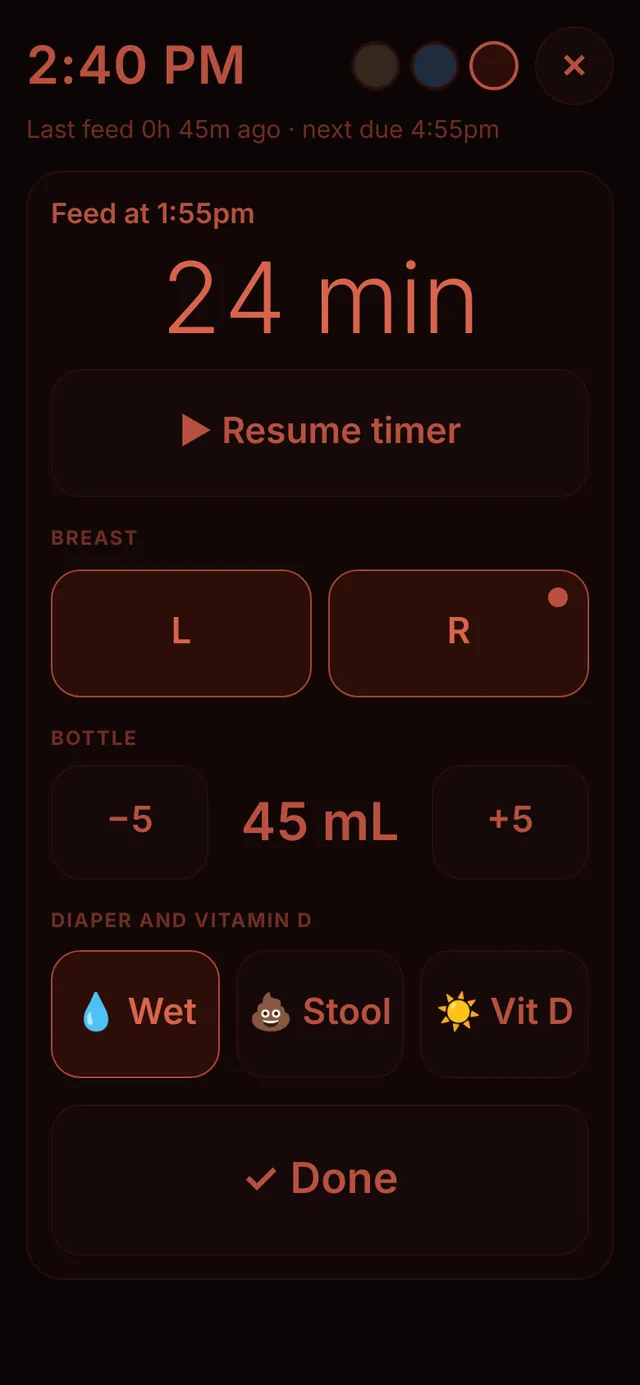
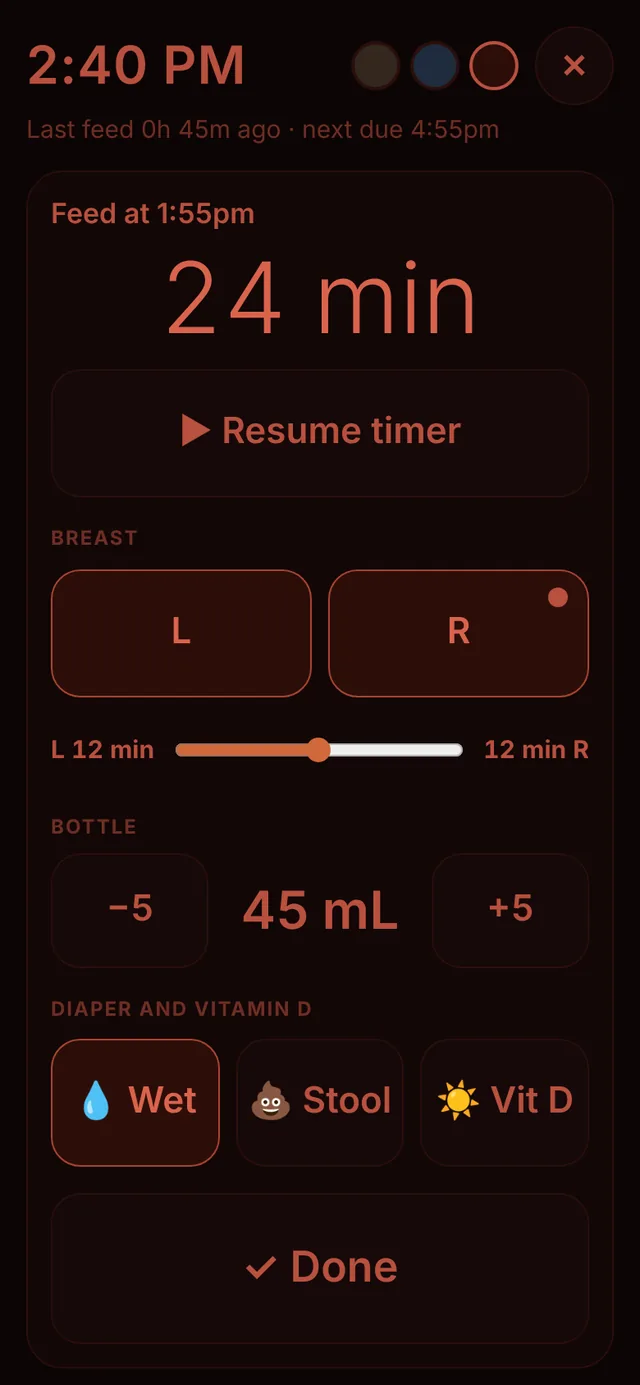
v1.10: left and right split for nursing time
When both sides are on, a Left ↔ Right slider divides the feed's
minutes between them (for example, 20 minutes at 75% left is 15 left
and 5 right). Steps of 5%, middle is even, and it follows the timer.

- Slider on the Log row and in Night shift
- Dashboard side balance shows nursing time on each side, plus an
  insight when one side gets noticeably more
- Chart explorer, printed day sheet, and doctor report show the split
- Stored as `split` (percent on the left) on the feed; export, text
  codes, import, and family sync carry it. Older both-sides feeds
  count as 50/50. No database changes.
- Docs, guide, About, overview, and Night shift screenshots updated

Claude-Session: https://claude.ai/code/session_01C2LP9XX3HMhgrsmSLqk1xr

diff --git a/cradle.html b/cradle.html
@@ -162,7 +162,7 @@ nav.tabs button.on{color:var(--ink);border-color:var(--accent)}
 .empty{border:2px dashed var(--line);border-radius:var(--r);padding:28px;text-align:center;color:var(--muted);background:var(--panel)}
 @media (max-width:820px){
   .cols{display:none}
-  .feed{grid-template-columns:auto 1fr auto;grid-template-areas:"n time del" "sides sides min" "bottle pump pump" "dia dia dia" "wf wf wf" "note note note"}
+  .feed{grid-template-columns:auto 1fr auto;grid-template-areas:"n time del" "sides sides min" "split split split" "bottle pump pump" "dia dia dia" "wf wf wf" "note note note"}
   .feed>.n{grid-area:n}.feed>.c-time{grid-area:time}.feed>.c-side{grid-area:sides}.feed>.c-min{grid-area:min}.feed>.c-bottle{grid-area:bottle}
   .feed>.c-pump{grid-area:pump}.feed>.c-wet,.feed>.c-stool,.feed>.c-vit{display:none}.feed>.c-dia{display:flex!important;grid-area:dia;gap:8px}
   .feed>.c-note{grid-area:note}.feed>.del{grid-area:del}
@@ -294,8 +294,15 @@ body.night-on .toast{background:#2c2621;color:#d9c3a5}
 .c-wf{grid-column:1/-1;display:flex;align-items:center;gap:8px;flex-wrap:wrap;padding:8px 10px;border-radius:10px;background:var(--panel2);font-size:13px}
 .c-wf input{width:120px!important}
 .c-wf .wfres{font-weight:700}
+/* Left/right split: drag toward the side that got more time */
+.c-split{grid-column:1/-1;display:grid;grid-template-columns:auto minmax(0,1fr) auto;align-items:center;gap:10px;padding:6px 10px;border-radius:10px;background:var(--panel2);font-size:13px}
+.c-split b{font-variant-numeric:tabular-nums}
+.c-split .sl{color:var(--accent)}.c-split .sr{color:var(--wet);text-align:right}
+.c-split input[type=range],#night .nsplit input[type=range]{width:100%;accent-color:var(--accent);height:28px;margin:0;padding:0;border:0;background:none}
+#night .nsplit{display:grid;grid-template-columns:auto minmax(0,1fr) auto;align-items:center;gap:12px;margin-top:10px;font-weight:700;font-variant-numeric:tabular-nums}
+#night .nsplit input[type=range]{height:44px}
 .chk.wf.on{border-color:var(--bottle);background:color-mix(in srgb,var(--bottle) 15%,transparent)}
-@media (max-width:820px){.feed>.c-wf{grid-area:wf}.feed>.c-wtd{display:none}}
+@media (max-width:820px){.feed>.c-wf{grid-area:wf}.feed>.c-wtd{display:none}.feed>.c-split{grid-area:split}}
 /* Phone alarm card */
 #alarmSetModal .card{text-align:center;max-width:360px}
 .as-time{font:800 52px/1.05 system-ui,-apple-system,"Segoe UI",sans-serif;letter-spacing:-1px;margin:6px 0 4px;font-variant-numeric:tabular-nums}
@@ -719,12 +726,12 @@ body.night-on .toast{background:#2c2621;color:#d9c3a5}
     </div>
     <div class="grid guide">
       <div class="card"><div class="ico">🔁</div><h3>The triple-feed cycle</h3><p>Each session has three parts: nurse at the breast, offer a bottle top-up, then pump. Log all three on one row.</p></div>
-      <div class="card"><div class="ico">🤱</div><h3>Breast tracking</h3><p>If you nurse on both sides, tap both. The first side you tap gets the dot, so you know where to start next time. To time a feed, tap <b>▶</b> next to Minutes when you start and <b>■</b> when you finish. The minutes fill in for you, or you can type them.</p></div>
+      <div class="card"><div class="ico">🤱</div><h3>Breast tracking</h3><p>If you nurse on both sides, tap both. The first side you tap gets the dot, so you know where to start next time. To time a feed, tap <b>▶</b> next to Minutes when you start and <b>■</b> when you finish. The minutes fill in for you, or you can type them. With both sides on, a <b>Left ↔ Right</b> slider appears: slide it toward the side that got more time, and it splits the minutes (for example, 20 minutes slid to 75% left is 15 left and 5 right). Leave it in the middle for an even split.</p></div>
       <div class="card"><div class="ico">💧</div><h3>Diaper checks</h3><p>If a diaper has both urine and stool, mark both on that feed. For a change between feeds, tap <b>🧷 Diaper only</b>; those rows don't count as feeds. Goals follow the baby's age: 1 of each on the birth day (Day 0), then 1 on day 1, up to 5 on day 5, then at least 4 of each per day.</p></div>
       <div class="card"><div class="ico">🛁</div><h3>Baths</h3><p>Tap <b>🛁 Bath</b> under Since last feed to log a bath with the current time. Choose <b>Sponge</b> or <b>Tub</b> and add a note if you like, such as a hair wash or nail trim. Cradle remembers which kind you used last. Baths don’t count as feeds, so they never change feed totals or when the next feed is due. The Log shows today’s bath or when the last one was, and the Dashboard, History, print sheet, and doctor report all include baths.</p></div>
       <div class="card"><div class="ico">☀</div><h3>Vitamin D</h3><p>Tap ☀ on the feed where you gave the drops. Giving them at the same feed each day, like the first morning feed, makes it easier to remember. You'll get a heads-up if it's already logged that day.</p></div>
       <div class="card"><div class="ico">⏱</div><h3>Pump timer</h3><p>Start the timer when you start pumping. The green arc shows your target window.</p></div>
-      <div class="card"><div class="ico">📊</div><h3>Dashboard</h3><p>Shows the last 7 or 14 days ending on the day you have selected, including how many baths and when the last one was. Tap any chart to enlarge it, then tap a day or feed for details. Today counts as in progress until midnight.</p></div>
+      <div class="card"><div class="ico">📊</div><h3>Dashboard</h3><p>Shows the last 7 or 14 days ending on the day you have selected, including how many baths and when the last one was. Tap any chart to enlarge it, then tap a day or feed for details. The side balance also shows nursing time on each side, from the minutes and the split slider. Today counts as in progress until midnight.</p></div>
       <div class="card wide-guide"><div class="ico">💬</div><h3>Send updates by text</h3>
         <p>Each phone keeps its own copy of the log. To catch the other person up:</p>
         <ol class="steps">
@@ -742,8 +749,8 @@ body.night-on .toast{background:#2c2621;color:#d9c3a5}
       <div class="card"><div class="ico">🖨</div><h3>Printing</h3><p>Every tab has a Print button. The Log tab prints a paper sheet for the selected day. Printing needs Cradle open in a browser like Chrome or Safari, not in a file preview.</p></div>
       <div class="card"><div class="ico">⏰</div><h3>Next feed and alarm</h3><p>The Log tab shows when the next feed is due, based on the last feed and the interval in Settings (3 hours to start). When it's due, Cradle chimes, vibrates, and shows Snooze and Dismiss. This only works while Cradle is open on screen, so tap the screen once after opening it to allow sound. On a phone, <b>⏰ Set alarm</b> shows the time to set in your Clock app, with the steps. Phones don’t let web apps add Clock alarms themselves, even when Cradle is installed, so that one takes a few taps.</p></div>
       <div class="card"><div class="ico">⚖</div><h3>Weighted feeds and weight</h3><p>For a weighted feed, tap ⚖ on the feed and enter the weight before and after. Cradle shows about how much was transferred (1 gram is about 1 mL). Log weights from visits with <b>+ Add weight</b> on the Dashboard or <b>Weights</b> in the profile menu. Type weights like 7 lb 3.5 oz or 3270 g. Set the birth weight in Settings.</p></div>
-      <div class="card"><div class="ico">🩺</div><h3>Doctor report</h3><p>On the Dashboard, <b>🩺 Doctor report</b> prints one page for appointments: weight against birth weight, daily feeds, nursing minutes, bottle and pump volumes, diapers against goals, Vitamin D, baths, weighted feeds, your day notes, and lines for questions. It covers the 7 or 14 days shown on the Dashboard.</p></div>
-      <div class="card"><div class="ico">🌙</div><h3>Night shift</h3><p>Tap the <b>Night shift</b> tab for a dim, low-glare screen with huge buttons for one-handed night feeds. The three dots at the top switch colors: Warm, Moonlight, or Red. <b>Start feed</b> logs the time and starts the timer. Then tap L or R, adjust the bottle by 5 mL, mark wet, stool, or Vitamin D, and tap <b>Done</b>. Everything saves as you go. Between feeds, <b>🧷 Diaper only</b> and <b>🛁 Bath</b> log those with the current time.</p></div>
+      <div class="card"><div class="ico">🩺</div><h3>Doctor report</h3><p>On the Dashboard, <b>🩺 Doctor report</b> prints one page for appointments: weight against birth weight, daily feeds, nursing minutes with the left and right split, bottle and pump volumes, diapers against goals, Vitamin D, baths, weighted feeds, your day notes, and lines for questions. It covers the 7 or 14 days shown on the Dashboard.</p></div>
+      <div class="card"><div class="ico">🌙</div><h3>Night shift</h3><p>Tap the <b>Night shift</b> tab for a dim, low-glare screen with huge buttons for one-handed night feeds. The three dots at the top switch colors: Warm, Moonlight, or Red. <b>Start feed</b> logs the time and starts the timer. Then tap L or R (with both on, a slider splits the time between sides), adjust the bottle by 5 mL, mark wet, stool, or Vitamin D, and tap <b>Done</b>. Everything saves as you go. Between feeds, <b>🧷 Diaper only</b> and <b>🛁 Bath</b> log those with the current time.</p></div>
       <div class="card"><div class="ico">🌌</div><h3>Calm screen</h3><p>A slow, soothing screensaver with the time, time since the last feed, and the next feed due. Open it with the moon button at the top right, next to your profile. Tap the screen to show controls: spa music, ocean, rain, or white noise, volume, and whether the clock sits in the center or the corner. The feed alarm still works here. When Cradle is installed as an app, the screen stays on while Calm or Night shift is open. Opened as a file, your phone may still turn the screen off on its own timer.</p></div>
       <div class="card"><div class="ico">🏆</div><h3>Achievements</h3><p>Ten badges based on your goals, like Sunshine Streak for 7 days of Vitamin D and Diaper Pro for 7 days of diaper goals. Open them from the profile menu to see progress. Streaks aren’t broken by a day that isn’t over yet.</p></div>
       <div class="card"><div class="ico">🎓</div><h3>Learning center</h3><p>In the profile menu. <b>High-contrast cards</b> are five bold black-and-white designs (Bullseye, Checkerboard, Zigzag, Spiral, and Smile) for calm, awake moments with your baby. Tap one to show it full screen, then swipe or tap the sides to change cards. <b>Invert</b> swaps black and white, and <b>Auto</b> changes cards every 10 seconds. Hold the phone about 8 to 12 inches (20 to 30 cm) away, and stop when your baby looks away or fusses. The screen stays on while a card is showing.</p></div>
@@ -992,9 +999,11 @@ body.night-on .toast{background:#2c2621;color:#d9c3a5}
 <div class="modal" id="aboutModal">
   <div class="card">
     <h3>About Cradle</h3>
-    <p style="margin:0 0 8px"><b>Cradle v1.9</b><br><span class="sub">A triple-feeding log that works offline and syncs between family phones through your own Supabase project. No external libraries.</span></p>
+    <p style="margin:0 0 8px"><b>Cradle v1.10</b><br><span class="sub">A triple-feeding log that works offline and syncs between family phones through your own Supabase project. No external libraries.</span></p>
     <p class="sub" style="margin:0 0 8px;padding:10px 12px;border-radius:12px;background:var(--accent-soft)"><b>Not medical advice.</b> Cradle is a notebook. Goals in the app are placeholders, so follow your pediatrician or care team, and call them if you’re worried about your baby.<br><br><b>Built with AI.</b> Cradle was built with help from Claude, an AI model by Anthropic. It has been tested but not independently reviewed, so keep backups with Export data.</p>
     <h3 style="margin-top:14px">Changelog</h3>
+    <b>v1.10</b>
+    <ul class="cl"><li>Left and right split: when you nurse on both sides, a slider divides the feed’s minutes between them (for example 15 left and 5 right)</li><li>The slider is on the Log and in Night shift</li><li>The Dashboard, chart explorer, printed day sheet, and doctor report show time on each side</li></ul>
     <b>v1.9</b>
     <ul class="cl"><li>Sign out and remove from this phone: clears the log, settings, and game scores from a shared or lost phone</li><li>Erase all data is now for the family owner only</li><li>Stronger web security: the site only runs Cradle’s own code and only talks to your database</li><li>The profile menu scrolls on small screens</li></ul>
     <b>v1.8</b>
@@ -1023,7 +1032,7 @@ body.night-on .toast{background:#2c2621;color:#d9c3a5}
 <script type="application/json" id="baseData">{}</script>
 <script>
 (function(){
-const VERSION='1.9';
+const VERSION='1.10';
 const LS='cradle-feeding-v1';
 const $=s=>document.querySelector(s);
 const $$=s=>document.querySelectorAll(s);
@@ -1067,6 +1076,12 @@ const day=k=>S.days[k]||(S.days[k]={feeds:[],vitD:false,notes:''});
 const peek=k=>S.days[k]||{feeds:[],vitD:false,notes:''};
 const sum=(a,f)=>a.reduce((t,x)=>t+(num(x[f])||0),0);
 const isFeed=f=>!f.bath&&!!(f.wf||f.left||f.right||num(f.bottle)!=null||num(f.pump)!=null||num(f.mins)>0||(S&&S.nurse&&S.nurse.id===f.id));
+/* Left/right split: f.split = share of nursing time on the LEFT (0 to 100), used when both sides are on */
+function splitOf(f){if(f.left&&f.right){const v=num(f.split);return v==null?50:Math.max(0,Math.min(100,v))}return f.left?100:f.right?0:null}
+function sideMins(f){const m=num(f.mins),p=splitOf(f);if(!(m>0)||p==null)return null;const L=Math.round(m*p/100);return {L,R:m-L}}
+function splitText(f){const sm=sideMins(f),p=splitOf(f);return sm?{L:sm.L+' min',R:sm.R+' min'}:{L:p+'%',R:(100-p)+'%'}}
+function splitShort(f){if(!(f.left&&f.right))return '';const sm=sideMins(f),p=splitOf(f);return sm?`L${sm.L}/R${sm.R}`:`${p}/${100-p}`}
+function sideTotals(fs){let L=0,R=0;fs.forEach(f=>{const sm=sideMins(f);if(sm){L+=sm.L;R+=sm.R}});return {L,R}}
 /* Baths: rows with f.bath = 'sponge' or 'tub' */
 const BATHS={sponge:'Sponge bath',tub:'Tub bath'};
 const bathName=f=>BATHS[f.bath]||'Bath';
@@ -1186,6 +1201,7 @@ function feedRow(f,i,lab){
     <div class="c-dia"><button class="chk wet ${f.urine?'on':''}" data-t="urine" title="Wet">💧</button><button class="chk stool ${f.stool?'on':''}" data-t="stool" title="Stool">💩</button><button class="chk vit ${f.vitD?'on':''}" data-t="vitD" title="Vitamin D given">☀</button><button class="chk wf ${f.wf?'on':''}" data-t="wf" title="Weighted feed">⚖</button></div>
     <div class="c-note"><input type="text" data-k="note" value="${esc(f.note)}" placeholder="Note"></div>
     <button class="del" title="Delete feed">&times;</button>
+    <div class="c-split ${f.left&&f.right?'':'hidden'}"><span class="sl">Left <b data-sl="L">${splitText(f).L}</b></span><input type="range" min="0" max="100" step="5" data-k="split" value="${100-(splitOf(f)??50)}" aria-label="Split of nursing time: drag toward the side that got more time"><span class="sr"><b data-sl="R">${splitText(f).R}</b> Right</span></div>
     <div class="c-wf ${f.wf?'':'hidden'}"><b>⚖ Weighted feed</b><span>Before</span><input type="text" data-k="wPre" value="${f.wPre?fmtW(f.wPre):''}" placeholder="${S.settings.weightUnit==='g'?'grams':'lb oz'}"><span>After</span><input type="text" data-k="wPost" value="${f.wPost?fmtW(f.wPost):''}" placeholder="${S.settings.weightUnit==='g'?'grams':'lb oz'}"><span class="wfres">${wfRes(f)}</span></div>
   </div>`;
 }
@@ -1195,10 +1211,12 @@ function renderFeeds(){
   const d=peek(cur);
   $('#feeds').innerHTML=d.feeds.length?(()=>{let c=0;return d.feeds.map((f,i)=>feedRow(f,i,isFeed(f)?'#'+(++c):f.bath?'🛁':'🧷')).join('')})():`<div class="empty">No feeds logged for this day yet.<br>Tap <b>Log feed now</b> to start.</div>`;
 }
+function updSplit(row,f){const c=row&&row.querySelector('.c-split');if(!c)return;c.classList.toggle('hidden',!(f.left&&f.right));const t=splitText(f);c.querySelector('[data-sl=L]').textContent=t.L;c.querySelector('[data-sl=R]').textContent=t.R;c.querySelector('input').value=100-(splitOf(f)??50)}
 const findFeed=el=>{const row=el.closest('.feed');if(!row)return{};const d=day(cur);return{row,d,f:d.feeds.find(x=>x.id===row.dataset.id)}};
 $('#feeds').addEventListener('input',e=>{
   const k=e.target.dataset.k;if(!k)return;const{row,f}=findFeed(e.target);if(!f)return;
-  if(k==='mins'){const v=e.target.value.trim();f.mins=v===''?null:num(v);save();return}
+  if(k==='split'){f.split=100-(+e.target.value);const t=splitText(f);row.querySelector('[data-sl=L]').textContent=t.L;row.querySelector('[data-sl=R]').textContent=t.R;save();return}
+  if(k==='mins'){const v=e.target.value.trim();f.mins=v===''?null:num(v);updSplit(row,f);save();return}
   if(k==='bottle'||k==='pump'){
     const v=e.target.value.replace(',','.');f[k]=v.trim()===''?null:num(v);
     if(k==='bottle'){row.querySelector('.c-bottle .meter i').style.width=Math.min(100,(f.bottle||0)/(S.settings.target||1)*100)+'%'}
@@ -1218,7 +1236,7 @@ $('#feeds').addEventListener('click',async e=>{
     const s=sb.dataset.side,p=s==='L'?'left':'right';f[p]=!f[p];
     if(f[p]&&!f.start)f.start=s;
     if(!f[p]&&f.start===s)f.start=f.left?'L':f.right?'R':'';
-    row.querySelector('.sides').innerHTML=sideBtns(f);save();renderSince();
+    row.querySelector('.sides').innerHTML=sideBtns(f);updSplit(row,f);save();renderSince();
   }else if(cb){
     const t=cb.dataset.t;
     if(t==='vitD'&&!f.vitD){const g=vitGiven(d);if(g.given&&!await ask('Vitamin D is already logged today'+(g.time?' at '+fmt12(g.time):'')+'. Log it again?','Log again'))return;d.vitD=false}
@@ -1483,6 +1501,7 @@ function renderDash(){
     ins.push(['☀',(missV.length?`Vitamin D not logged on ${missV.join(', ')}.`:`Vitamin D logged on every completed day since starting.`)+(usualS?` Usually given around ${usualS}.`:'')]);
     {const bs=L.flatMap(x=>bathsOf(x.d).map(f=>({k:x.k,f}))),lb=lastBath(L[n-1].k);
       if(bs.length||lb)ins.push(['🛁',bs.length?`${bs.length} bath${bs.length>1?'s':''} in these ${n} days. Last: ${bathName(lb.f).toLowerCase()} on ${dlong(parseK(lb.k))}${lb.f.time?' at '+fmt12(lb.f.time):''} (${daysAgo(lb.k)}).`:`No baths in these ${n} days. Last bath was ${dlong(parseK(lb.k))} (${daysAgo(lb.k)}).`])}
+    {const st=sideTotals(baseFeeds),tt=st.L+st.R;if(tt>=30){const pl=Math.round(st.L/tt*100);ins.push(['⚖',`Nursing time split ${pl}% left and ${100-pl}% right (${hm(st.L)} left, ${hm(st.R)} right)${Math.abs(pl-50)>=15?`, so the ${pl>50?'right':'left'} side has been getting less time`:''}.`])}}
     if(lastSide)ins.push(['🤱',`Started on Left ${startL} times and Right ${startR} times. Start on ${lastSide.start==='L'?'Right':'Left'} next.`]);
   }
   $('#insights').innerHTML=ins.length?ins.map(x=>`<li><span>${x[0]}</span><span>${x[1]}</span></li>`).join(''):'<li><span>ℹ</span><span>Log a few feeds to see insights here.</span></li>';
@@ -1493,7 +1512,9 @@ function renderDash(){
   $('#sideBal').innerHTML=tot?`<div class="sub" style="margin-bottom:8px">Which side each nursing session started on</div>
     <div class="sidebar"><div style="flex:${startL||0.0001};background:var(--accent)" data-tip="Left: ${startL} starts">${startL?'L '+Math.round(startL/tot*100)+'%':''}</div><div style="flex:${startR||0.0001};background:var(--wet)" data-tip="Right: ${startR} starts">${startR?'R '+Math.round(startR/tot*100)+'%':''}</div></div>
     <div class="legend" style="margin-top:10px"><span><i style="background:var(--accent)"></i>Left ${startL}</span><span><i style="background:var(--wet)"></i>Right ${startR}</span></div>
-    <div class="sub" style="margin-top:12px">Both sides used in <b>${both}</b> of ${nursed} nursing sessions. Feeds with no breast logged: <b>${allFeeds.length-nursed}</b>.</div>`
+    <div class="sub" style="margin-top:12px">Both sides used in <b>${both}</b> of ${nursed} nursing sessions. Feeds with no breast logged: <b>${allFeeds.length-nursed}</b>.</div>
+    ${(()=>{const st=sideTotals(allFeeds),tt=st.L+st.R;if(!tt)return '<div class="sub" style="margin-top:14px">Log minutes to see nursing time by side.</div>';const pl=Math.round(st.L/tt*100);
+      return `<div class="sub" style="margin:16px 0 8px">Nursing time on each side (from minutes and the split slider)</div><div class="sidebar"><div style="flex:${st.L||0.0001};background:var(--accent)" data-tip="Left: ${st.L} min">${st.L?'L '+pl+'%':''}</div><div style="flex:${st.R||0.0001};background:var(--wet)" data-tip="Right: ${st.R} min">${st.R?'R '+(100-pl)+'%':''}</div></div><div class="legend" style="margin-top:10px"><span><i style="background:var(--accent)"></i>Left ${hm(st.L)}</span><span><i style="background:var(--wet)"></i>Right ${hm(st.R)}</span></div>`})()}`
     :`<div class="empty">No breast sides logged in this range.</div>`;
   $('#chart1').innerHTML=chartFeeds();
   $('#chart2').innerHTML=chartVolume(L);
@@ -1637,7 +1658,7 @@ function normFeed(f){
   return {id:f.id?String(f.id):uid(),time:parseTime(f.time),left,right,start,
     bottle:vol(f.bottle??f.bottleMl),pump:vol(f.pump??f.pumpMl??f.pumped),
     urine:bool(f.urine??f.wet),stool:bool(f.stool??f.dirty??f.poop),vitD:bool(f.vitD??f.vitaminD??f.vitamin_d),
-    wf:bool(f.wf??f.weighted),wPre:num(f.wPre)||null,wPost:num(f.wPost)||null,mins:(()=>{const v=f.mins??f.minutes??f.duration;return v==null||v===''?null:num(v)})(),note:String(f.note??f.notes??'')};
+    split:(()=>{const v=num(f.split);return v==null?undefined:Math.max(0,Math.min(100,v))})(),wf:bool(f.wf??f.weighted),wPre:num(f.wPre)||null,wPost:num(f.wPost)||null,mins:(()=>{const v=f.mins??f.minutes??f.duration;return v==null||v===''?null:num(v)})(),note:String(f.note??f.notes??'')};
 }
 function parseImport(text){
   const obj=JSON.parse(text),days={};
@@ -1688,7 +1709,7 @@ function buildPrint(){
   $('#print').innerHTML=`<h1>Triple-Feeding Daily Log${babyName()?' · '+esc(babyName()):''}</h1>
   <div>Date: ${parseK(cur).toLocaleDateString(undefined,{weekday:'long',year:'numeric',month:'long',day:'numeric'})} | Target bottle: ${st.target} mL | Pump: ${st.pumpMin} to ${st.pumpMax} min${g.dol!=null&&g.dol>=0?' | Day '+g.dol+' of life, goal '+g.wet+' wet / '+g.stool+' stool':''}</div>
   <table><tr><th>#</th><th>Time</th><th>Breast</th><th>Min</th><th>Bottle (mL)</th><th>Pump (mL)</th><th>Urine</th><th>Stool</th><th>Vit D</th><th>Note</th></tr>
-  ${rows.map((f,i)=>f&&f.bath?`<tr><td>${i+1}</td><td>${fmt12(f.time)}</td><td colspan="7">🛁 ${bathName(f)}</td><td>${esc(f.note)}</td></tr>`:`<tr><td>${i+1}</td><td>${f?fmt12(f.time):''}</td><td>${f?[f.left?'L':'',f.right?'R':''].filter(Boolean).join(' + ')+(f.start?' (start '+f.start+')':''):'[ ] L  [ ] R'}</td><td>${f?.mins??''}</td><td>${f?.bottle??''}</td><td>${f?.pump??''}</td><td>${f?(f.urine?'✓':''):'[ ]'}</td><td>${f?(f.stool?'✓':''):'[ ]'}</td><td>${f?(f.vitD?'✓':''):'[ ]'}</td><td>${f?esc(f.note):''}</td></tr>`).join('')}</table>
+  ${rows.map((f,i)=>f&&f.bath?`<tr><td>${i+1}</td><td>${fmt12(f.time)}</td><td colspan="7">🛁 ${bathName(f)}</td><td>${esc(f.note)}</td></tr>`:`<tr><td>${i+1}</td><td>${f?fmt12(f.time):''}</td><td>${f?[f.left?'L':'',f.right?'R':''].filter(Boolean).join(' + ')+(f.start?' (start '+f.start+')':''):'[ ] L  [ ] R'}</td><td>${f?.mins??''}${f&&f.left&&f.right&&num(f.mins)>0?' ('+splitShort(f)+')':''}</td><td>${f?.bottle??''}</td><td>${f?.pump??''}</td><td>${f?(f.urine?'✓':''):'[ ]'}</td><td>${f?(f.stool?'✓':''):'[ ]'}</td><td>${f?(f.vitD?'✓':''):'[ ]'}</td><td>${f?esc(f.note):''}</td></tr>`).join('')}</table>
   <p>Vitamin D: ${v.given?'✓ Given'+(v.time?' at '+fmt12(v.time):''):'[ ]'} | Wet: ${t.wet}${g.wet?' of '+g.wet:''} | Stool: ${t.stool}${g.stool?' of '+g.stool:''} | Bottle total: ${t.bottle} mL | Pump total: ${t.pump} mL${bathsOf(d).length?' | Bath: '+bathTag(d):''}</p>
   <p>Notes: ${esc(d.notes)}</p>`;
 }
@@ -1781,7 +1802,7 @@ function selFeed(id){
   const f=peek(cur).feeds.find(x=>x.id===id);if(!f)return;
   const br=[f.left?'L':'',f.right?'R':''].filter(Boolean).join(' + ');
   $('#cmSel').innerHTML=`<div class="wide2"><b style="font-size:16px">${fmt12(f.time)||'No time'}</b><span class="sub">${longDate(cur)}</span></div>`+
-    cell('Breast',br?br+(f.start?' (start '+f.start+')':''):'--')+cell('Minutes',num(f.mins)!=null?f.mins+' min':'--')+(f.wf?cell('Weighted feed',num(f.wPre)>0&&num(f.wPost)>0?Math.round(f.wPost-f.wPre)+' mL':'Incomplete'):'')+cell('Bottle',num(f.bottle)!=null?f.bottle+' mL':'--')+cell('Pumped',num(f.pump)!=null?f.pump+' mL':'--')+
+    cell('Breast',br?br+(f.start?' (start '+f.start+')':''):'--')+(f.left&&f.right?cell('Split',(()=>{const t=splitText(f);return 'L '+t.L+' · R '+t.R})()):'')+cell('Minutes',num(f.mins)!=null?f.mins+' min':'--')+(f.wf?cell('Weighted feed',num(f.wPre)>0&&num(f.wPost)>0?Math.round(f.wPost-f.wPre)+' mL':'Incomplete'):'')+cell('Bottle',num(f.bottle)!=null?f.bottle+' mL':'--')+cell('Pumped',num(f.pump)!=null?f.pump+' mL':'--')+
     cell('Wet',f.urine?'Yes':'No')+cell('Stool',f.stool?'Yes':'No')+cell('Vitamin D',f.vitD?'Given':'No')+(f.note?`<div class="wide2"><span class="sub">Note:</span> ${esc(f.note)}</div>`:'');
   hl(id,true);
 }
@@ -1792,7 +1813,7 @@ function hl(v,feed){
 function cmTable(kind,L){
   if(kind==='feed'){const fs=peek(cur).feeds.filter(isFeed);
     return `<table class="tbl"><thead><tr><th>Time</th><th>Breast</th><th class="num">Min</th><th class="num">Bottle mL</th><th class="num">Pump mL</th><th>Wet</th><th>Stool</th><th>Vit D</th><th>Note</th></tr></thead><tbody>`+
-    fs.map(f=>`<tr class="click" data-sel="${f.id}"><td>${fmt12(f.time)}</td><td>${[f.left?'L':'',f.right?'R':''].filter(Boolean).join('+')||'--'}</td><td class="num">${f.mins??''}</td><td class="num">${f.bottle??''}</td><td class="num">${f.pump??''}</td><td>${f.urine?'✓':''}</td><td>${f.stool?'✓':''}</td><td>${f.vitD?'✓':''}</td><td style="white-space:normal">${esc(f.note)}</td></tr>`).join('')+`</tbody></table>`}
+    fs.map(f=>`<tr class="click" data-sel="${f.id}"><td>${fmt12(f.time)}</td><td>${[f.left?'L':'',f.right?'R':''].filter(Boolean).join('+')||'--'}${f.left&&f.right?' <span class="sub">'+splitShort(f)+'</span>':''}</td><td class="num">${f.mins??''}</td><td class="num">${f.bottle??''}</td><td class="num">${f.pump??''}</td><td>${f.urine?'✓':''}</td><td>${f.stool?'✓':''}</td><td>${f.vitD?'✓':''}</td><td style="white-space:normal">${esc(f.note)}</td></tr>`).join('')+`</tbody></table>`}
   return `<table class="tbl"><thead><tr><th>Date</th><th class="num">Feeds</th><th class="num">Bottle mL</th><th class="num">Pump mL</th><th class="num">Wet</th><th class="num">Stool</th><th>Vit D</th><th>Bath</th><th class="num">Longest gap</th><th class="num">Avg gap</th></tr></thead><tbody>`+
     L.map(x=>{const y=dayDetail(x.k);return `<tr class="click" data-sel="${x.k}"><td>${dlong(x.dt)}${tdy(x.k)?' <span class="sub">(so far)</span>':''}</td><td class="num">${y.t.n}</td><td class="num">${Math.round(y.t.bottle)}</td><td class="num">${Math.round(y.t.pump)}</td><td class="num ${y.t.wet>=y.g.wet&&y.t.n?'ok':''}">${y.t.wet}/${y.g.wet}</td><td class="num ${y.t.stool>=y.g.stool&&y.t.n?'ok':''}">${y.t.stool}/${y.g.stool}</td><td>${y.v.given?'✓ '+(y.v.time?fmt12(y.v.time):''):vitDue(x.k)?'--':'<span class="sub">n/a</span>'}</td><td>${bathTag(y.d)}</td><td class="num">${y.lg?hm(y.lg):'--'}</td><td class="num">${y.ag?hm(y.ag):'--'}</td></tr>`}).join('')+`</tbody></table>`;
 }
@@ -1980,7 +2001,7 @@ function buildReport(){
   <h3 style="margin:12px 0 4px;font-size:14px">Weight</h3>
   ${ws?`<div>Birth: <b>${ws.bw>0?fmtW(ws.bw):'not set'}</b> · Latest: <b>${fmtW(ws.latest.g)}</b> (${dlong(parseK(ws.latest.date))}, ${ws.latest.src})${ws.pct!=null?' · <b>'+(ws.pct>=0?'+':'')+ws.pct.toFixed(1)+'%</b> vs birth':''}${ws.lowest?' · Lowest: '+fmtW(ws.lowest.g)+(ws.lowPct!=null?' ('+ws.lowPct.toFixed(1)+'%)':''):''}${ws.bw>0?' · Back to birth weight: <b>'+(ws.back?dlong(parseK(ws.back.date)):'not yet')+'</b>':''}${ws.rate!=null?' · Gain since lowest: '+fmtDW(ws.rate)+'/day':''}</div>`:'<div style="color:#555">No weights logged.</div>'}
   <h3 style="margin:12px 0 4px;font-size:14px">Averages over ${done.length} completed day${done.length===1?'':'s'}</h3>
-  <div>Feeds/day: <b>${avg(r=>r.y.t.n).toFixed(1)}</b> · Nursing: <b>${Math.round(avg(r=>r.nm))} min/day</b> · Bottle: <b>${Math.round(avg(r=>r.y.t.bottle))} mL/day</b> · Pumped: <b>${rows.some(r=>r.y.d.feeds.some(f=>num(f.pump)!=null))?Math.round(avg(r=>r.y.t.pump))+' mL/day':'not tracked'}</b> · Wet/day: <b>${avg(r=>r.y.t.wet).toFixed(1)}</b> · Stool/day: <b>${avg(r=>r.y.t.stool).toFixed(1)}</b> · Vitamin D: <b>${L.filter(x=>x.v.given).length} of ${L.filter(x=>vitDue(x.k)&&(!tdy(x.k)||x.v.given)).length} days</b> · Baths: <b>${(()=>{const c=L.reduce((a,x)=>a+bathsOf(x.d).length,0),lb=lastBath(L[L.length-1].k);return c+(lb?', last '+dlong(parseK(lb.k))+' ('+bathName(lb.f).toLowerCase()+')':'')})()}</b></div>
+  <div>Feeds/day: <b>${avg(r=>r.y.t.n).toFixed(1)}</b> · Nursing: <b>${Math.round(avg(r=>r.nm))} min/day</b>${(()=>{const st=sideTotals(done.flatMap(r=>r.y.fs)),tt=st.L+st.R;return tt?' (left '+Math.round(st.L/tt*100)+'%, right '+(100-Math.round(st.L/tt*100))+'%)':''})()} · Bottle: <b>${Math.round(avg(r=>r.y.t.bottle))} mL/day</b> · Pumped: <b>${rows.some(r=>r.y.d.feeds.some(f=>num(f.pump)!=null))?Math.round(avg(r=>r.y.t.pump))+' mL/day':'not tracked'}</b> · Wet/day: <b>${avg(r=>r.y.t.wet).toFixed(1)}</b> · Stool/day: <b>${avg(r=>r.y.t.stool).toFixed(1)}</b> · Vitamin D: <b>${L.filter(x=>x.v.given).length} of ${L.filter(x=>vitDue(x.k)&&(!tdy(x.k)||x.v.given)).length} days</b> · Baths: <b>${(()=>{const c=L.reduce((a,x)=>a+bathsOf(x.d).length,0),lb=lastBath(L[L.length-1].k);return c+(lb?', last '+dlong(parseK(lb.k))+' ('+bathName(lb.f).toLowerCase()+')':'')})()}</b></div>
   <table style="width:100%;border-collapse:collapse;margin-top:10px"><tr><th ${th}>Date</th><th ${th}>Day</th><th ${th}>Feeds</th><th ${th}>Nursing min</th><th ${th}>Bottle mL</th><th ${th}>Pump mL</th><th ${th}>Wet / goal</th><th ${th}>Stool / goal</th><th ${th}>Vit D</th><th ${th}>Bath</th><th ${th}>Longest gap</th></tr>
   ${rows.map(({x,y,nm})=>`<tr><td ${td.replace('right','left')}>${dlong(x.dt)}${tdy(x.k)?' (so far)':''}</td><td ${td}>${y.g.dol!=null&&y.g.dol>=0?y.g.dol:''}</td><td ${td}>${y.t.n}</td><td ${td}>${nm||''}</td><td ${td}>${Math.round(y.t.bottle)}</td><td ${td}>${y.d.feeds.some(f=>num(f.pump)!=null)?Math.round(y.t.pump):''}</td><td ${td}>${y.t.wet} / ${y.g.wet}</td><td ${td}>${y.t.stool} / ${y.g.stool}</td><td ${td.replace('right','center')}>${y.v.given?'✓'+(y.v.time?' '+fmt12(y.v.time):''):vitDue(x.k)?'':'n/a'}</td><td ${td.replace('right','center')}>${bathsOf(y.d).map(f=>f.bath==='sponge'?'Sponge':f.bath==='tub'?'Tub':'✓').join(', ')}</td><td ${td}>${y.lg?hm(y.lg):''}</td></tr>`).join('')}</table>
   ${wfs.length?`<h3 style="margin:12px 0 4px;font-size:14px">Weighted feeds</h3><table style="border-collapse:collapse"><tr><th ${th}>Date</th><th ${th}>Time</th><th ${th}>Breast</th><th ${th}>Before</th><th ${th}>After</th><th ${th}>Transfer</th></tr>${wfs.map(({k,f})=>`<tr><td ${td.replace('right','left')}>${dlong(parseK(k))}</td><td ${td}>${fmt12(f.time)}</td><td ${td}>${[f.left?'L':'',f.right?'R':''].filter(Boolean).join('+')}${f.mins?' '+f.mins+' min':''}</td><td ${td}>${f.wPre?fmtW(f.wPre):''}</td><td ${td}>${f.wPost?fmtW(f.wPost):''}</td><td ${td}>${num(f.wPre)>0&&num(f.wPost)>0?Math.round(f.wPost-f.wPre)+' mL':''}</td></tr>`).join('')}</table>`:''}
@@ -2026,6 +2047,7 @@ function renderNight(full){
     <div class="nrow n1" style="grid-template-columns:1fr"><button class="nbtn ${run?'on':''}" data-n="timer">${run?'■ Stop timer':'▶ '+(f.mins?'Resume timer':'Start timer')}</button></div>
     <div class="nlab">Breast</div>
     <div class="nrow n2"><button class="nbtn ${f.left?'on':''} ${f.start==='L'?'start':''}" data-n="L">L</button><button class="nbtn ${f.right?'on':''} ${f.start==='R'?'start':''}" data-n="R">R</button></div>
+    ${f.left&&f.right?`<div class="nsplit"><span>L <span data-nsl="L">${splitText(f).L}</span></span><input type="range" min="0" max="100" step="5" data-n="split" value="${100-splitOf(f)}" aria-label="Split of nursing time: drag toward the side that got more time"><span><span data-nsl="R">${splitText(f).R}</span> R</span></div>`:''}
     <div class="nlab">Bottle</div>
     <div class="nml"><button data-n="b-">−5</button><div class="val">${num(f.bottle)||0} mL</div><button data-n="b+">+5</button></div>
     <div class="nlab">Diaper and Vitamin D</div>
@@ -2049,6 +2071,7 @@ $('#night').addEventListener('click',async e=>{
   else if(a==='done'){if(S.nurse&&S.nurse.id===f.id)stopNurse(true);nightFid=null;toast('Saved');}
   save();renderNight(true);
 });
+$('#night').addEventListener('input',e=>{if(e.target.dataset.n!=='split')return;const cf=nightFeed();if(!cf)return;cf.f.split=100-(+e.target.value);const t=splitText(cf.f);$('#night [data-nsl=L]').textContent=t.L;$('#night [data-nsl=R]').textContent=t.R;save()});
 document.addEventListener('click',e=>{if(e.target.closest('[data-night]')){$('#menu').classList.remove('open');openNight()}});
 
 /* ================= Calm screen ================= */

diff --git a/docs/overview.html b/docs/overview.html
@@ -232,7 +232,7 @@ footer code{font-family:var(--mono); font-size:13px}
     <p class="lede">Triple feeding means nursing, then a bottle top-up, then pumping, every few hours, around the clock. Cradle keeps the whole session together so the totals add up the way your care team asks about them.</p>
   </div>
   <div class="cycle">
-    <div class="step"><span class="num">1 · Nurse</span><span class="big">L + R</span><p>Tap the sides you used. The first side gets a dot, so you know where to start next time. A ▶ timer fills in the minutes.</p></div>
+    <div class="step"><span class="num">1 · Nurse</span><span class="big">L + R</span><p>Tap the sides you used. The first side gets a dot, so you know where to start next time. A ▶ timer fills in the minutes, and a slider splits them between sides.</p></div>
     <div class="step"><span class="num">2 · Top up</span><span class="big">45 mL</span><p>Bottle volume, with a bar that fills toward your target. Night shift adjusts it in 5 mL steps.</p></div>
     <div class="step"><span class="num">3 · Pump</span><span class="big">70 mL</span><p>Pumped volume, plus a pump timer with a green arc for your 15 to 20 minute window.</p></div>
   </div>
@@ -437,7 +437,7 @@ footer code{font-family:var(--mono); font-size:13px}
 
 <footer>
   <div class="wrap">
-    <span><b style="color:var(--ink)">Cradle v1.9</b> · PolyForm Noncommercial 1.0.0 · Screenshots show example data for a made-up baby.</span>
+    <span><b style="color:var(--ink)">Cradle v1.10</b> · PolyForm Noncommercial 1.0.0 · Screenshots show example data for a made-up baby.</span>
     <span>Source and setup guide: <a href="https://github.com/skboyce28/Cradle">github.com/skboyce28/Cradle</a></span>
   </div>
 </footer>

diff --git a/README.md b/README.md
@@ -24,13 +24,13 @@ Nurse, bottle top-up, pump, diapers, and Vitamin D on one row, shared live betwe
 
 | | |
 |---|---|
-| **Log** | One row per feed: left/right breast (with which side you started), nursing minutes with a ▶ timer, bottle mL, pump mL, wet, stool, Vitamin D, notes. 🧷 diaper-only and 🛁 bath rows (sponge or tub) that don't count as feeds. |
+| **Log** | One row per feed: left/right breast (with which side you started), nursing minutes with a ▶ timer, a slider that splits the minutes between sides, bottle mL, pump mL, wet, stool, Vitamin D, notes. 🧷 diaper-only and 🛁 bath rows (sponge or tub) that don't count as feeds. |
 | **Night shift** | A dim, low-glare screen with huge buttons for one-handed night feeds, plus quick Diaper only and Bath buttons. Warm, Moonlight, or Red colors. |
-| **Dashboard** | 7 or 14 days of trends: feeds, nursing minutes, bottle and pump volume, diapers against goals, Vitamin D, side balance, longest stretch, weight against birth weight. Tap any chart to enlarge and explore it. Today shows as "in progress" until midnight. |
+| **Dashboard** | 7 or 14 days of trends: feeds, nursing minutes, bottle and pump volume, diapers against goals, Vitamin D, side balance and time on each side, longest stretch, weight against birth weight. Tap any chart to enlarge and explore it. Today shows as "in progress" until midnight. |
 | **History** | Every day at a glance, as cards or a table. |
 | **Next feed** | When the next feed is due, with an in-app chime, vibration, Snooze, and Dismiss. |
 | **Calm** | The 🌙 button at the top right: a slow screensaver with the time, time since the last feed, and spa music, ocean, rain, or white noise. |
-| **Doctor report** | One printable page for appointments, from the Dashboard: weight, feeds, volumes, diapers, Vitamin D, and baths. Every tab also prints. |
+| **Doctor report** | One printable page for appointments, from the Dashboard: weight, feeds, nursing time by side, volumes, diapers, Vitamin D, and baths. Every tab also prints. |
 | **Weighted feeds** | Before and after weights on a feed, with the estimated transfer (1 g ≈ 1 mL). |
 | **Achievements** | Ten badges based on your goals, like a 7-day Vitamin D streak. |
 | **Learning center** | High-contrast black-and-white cards to show your baby during calm, awake moments, full screen, with invert and auto-advance. |

diff --git a/docs/using-cradle.md b/docs/using-cradle.md
@@ -22,6 +22,7 @@ Tap **+ Log feed now** when a feed starts. Each row has:
 | **Time** | Set to now; tap to change it. |
 | **L / R** | Which breast. If you nurse on both sides, tap both. The first side you tap gets a dot, so you know where to start next time. |
 | **Minutes** | How long you nursed. Tap ▶ when you start and ■ when you finish to fill it in, or type it. |
+| **Left ↔ Right** | Appears when both sides are on. Slide it toward the side that got more time and it divides the minutes: 20 minutes slid to 75% left is 15 left and 5 right. The middle is an even split. Before minutes are entered it shows percentages. |
 | **Bottle** | mL of the top-up. The bar fills toward your bottle target (Settings). |
 | **Pump** | mL pumped. |
 | **Wet / Stool** | Mark both if a diaper had both. |
@@ -72,7 +73,7 @@ The day-6-on numbers are set in Settings. Follow whatever your care team tells y
 A dim, low-glare screen with huge buttons, for one-handed feeds in the dark.
 
 1. Tap **Start feed**. It logs the time and starts the timer.
-2. Tap **L** or **R**.
+2. Tap **L** or **R**. With both on, a slider splits the time between them, like on the Log.
 3. Adjust the bottle in 5 mL steps.
 4. Mark wet, stool, or Vitamin D.
 5. Tap **Done**.
@@ -86,7 +87,7 @@ Everything saves as you go. The three dots at the top switch colors: **Warm**, *
 The 7 or 14 days ending on the selected day:
 
 - Feeds per day, nursing minutes, bottle and pump volume
-- Diapers against goals, Vitamin D streak, side balance, longest stretch between feeds
+- Diapers against goals, Vitamin D streak, side balance (which side you started on, and nursing time on each side from the split slider), longest stretch between feeds
 - Baths: how many, sponge or tub, and when the last one was
 - Weight against birth weight
 
@@ -96,7 +97,7 @@ The 7 or 14 days ending on the selected day:
 
 **🩺 Doctor report** prints one page for appointments:
 - weight against birth weight
-- daily feeds, nursing minutes, and bottle and pump volumes
+- daily feeds, nursing minutes with the left and right split, and bottle and pump volumes
 - diapers against goals, Vitamin D, and baths
 - weighted feeds and your day notes
 - lines for questions

diff --git a/docs/deployment.md b/docs/deployment.md
@@ -62,13 +62,13 @@ Built by two scripts, both safe to rerun in any order:
 
 | `id` | `kind` | `data` example |
 |---|---|---|
-| `feed:k3j9x2a` | `feed` | `{"day":"2026-10-09","time":"07:05","left":true,"right":true,"start":"L","mins":28,"bottle":49,"pump":75,"urine":false,"stool":true,"vitD":true,"note":""}` |
+| `feed:k3j9x2a` | `feed` | `{"day":"2026-10-09","time":"07:05","left":true,"right":true,"start":"L","mins":28,"split":60,"bottle":49,"pump":75,"urine":false,"stool":true,"vitD":true,"note":""}` |
 | `feed:p0q7m1z` | `feed` | A bath: `{"day":"2026-10-09","time":"19:00","bath":"tub","note":"Hair wash"}` |
 | `day:2026-10-09` | `day` | `{"day":"2026-10-09","notes":"Lactation visit at 4pm.","vitD":false}` |
 | `weight:w8d2` | `weight` | `{"id":"w8d2","date":"2026-10-07","time":"11:00","g":3380,"src":"Pediatrician","note":""}` |
 | `settings` | `settings` | Goals, baby's name and birth date, Vitamin D start, feed interval, birth weight |
 
-Diaper-only rows are `feed` items with no breast, bottle, or pump. Deleting an entry keeps a marker (`deleted = true`), so other phones learn about the deletion.
+`split` is the percent of a both-sides feed's minutes on the left (missing means 50/50). Diaper-only rows are `feed` items with no breast, bottle, or pump. Deleting an entry keeps a marker (`deleted = true`), so other phones learn about the deletion.
 
 **Security rules:**
 - Row-level security is on for every table.

diff --git a/docs/how-it-works.md b/docs/how-it-works.md
@@ -12,6 +12,7 @@ For anyone reading, changing, or reviewing the code. For how it's deployed and w
 - **Game state.** Fun center settings live in the log's UI preferences. Your best score per account, remembered initials, and scores waiting to post (from rounds played offline) live under `cradle-game-v1`.
 - **Sync state.** Sign-in and sync bookkeeping live separately under `cradle-cloud-v1`: session tokens, the family id, the last sync time, and a fingerprint of each item as last synced.
 - **Day of life.** The birth date in Settings is **Day 0**. Diaper goals are computed from it.
+- **Left and right split.** A feed with both sides has `split`, the percent of its minutes on the left (0 to 100, in steps of 5). Missing means 50/50; a one-side feed is all on that side. `sideMins()` turns minutes and split into whole minutes per side, used by the Dashboard, the chart explorer, the day sheet, and the doctor report.
 - **Feeds vs. other rows.** A 🧷 diaper-only row (no breast, bottle, or pump) and a 🛁 bath row (`bath: "sponge"` or `"tub"`, plus `time` and `note`) live in the same `feeds` list but never count as feeds in stats, streaks, gaps, or the next-feed time. `isFeed()` checks for `bath` first.
 
 ### The installable build

diff --git a/CHANGELOG.md b/CHANGELOG.md
@@ -1,5 +1,18 @@
 # Changelog
 
+## v1.10
+
+**Left and right split**
+- When both sides are on, a **Left ↔ Right** slider appears on the feed. Slide it toward the side that got more time and it divides the feed's minutes: 20 minutes at 75% left is 15 left and 5 right.
+- Steps of 5%; the middle is an even split. It shows percentages until minutes are entered, then minutes per side, and follows the ▶ timer.
+- Also in **Night shift** when both L and R are on.
+- Time on each side shows up in:
+  - the Dashboard's side balance, plus an insight when one side gets noticeably more
+  - the chart explorer's feed table and details
+  - the printed day sheet (`20 (L15/R5)`)
+  - the doctor report (`left 60%, right 40%`)
+- Stored as `split` (percent on the left) on the feed, so export, text-message codes, import, and family sync carry it. Older both-sides feeds count as 50/50. No database changes.
+
 ## v1.9
 
 **Security**
